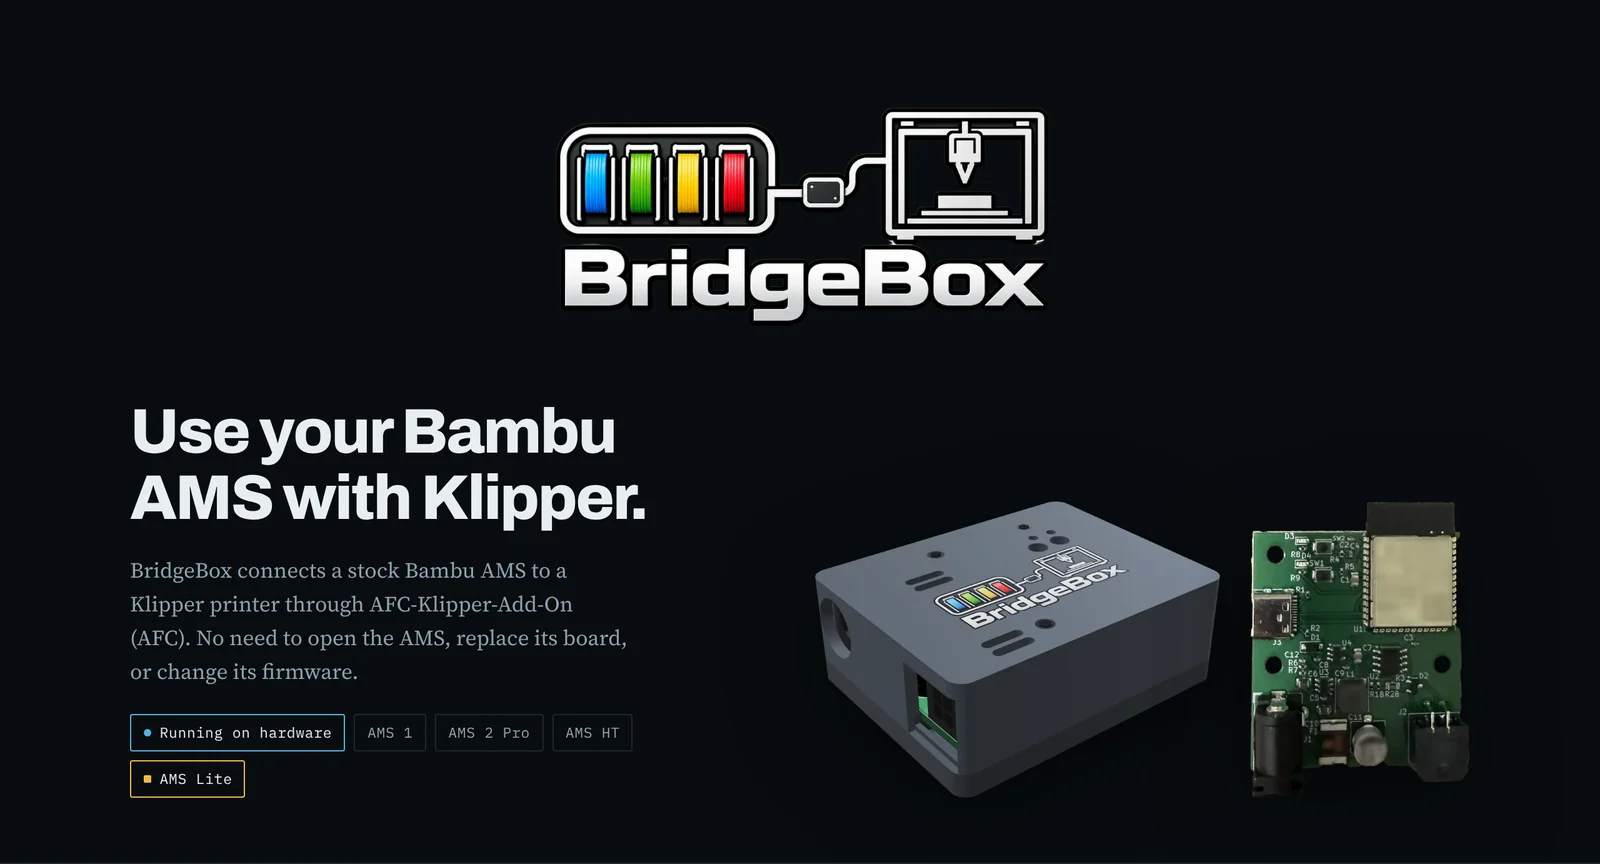
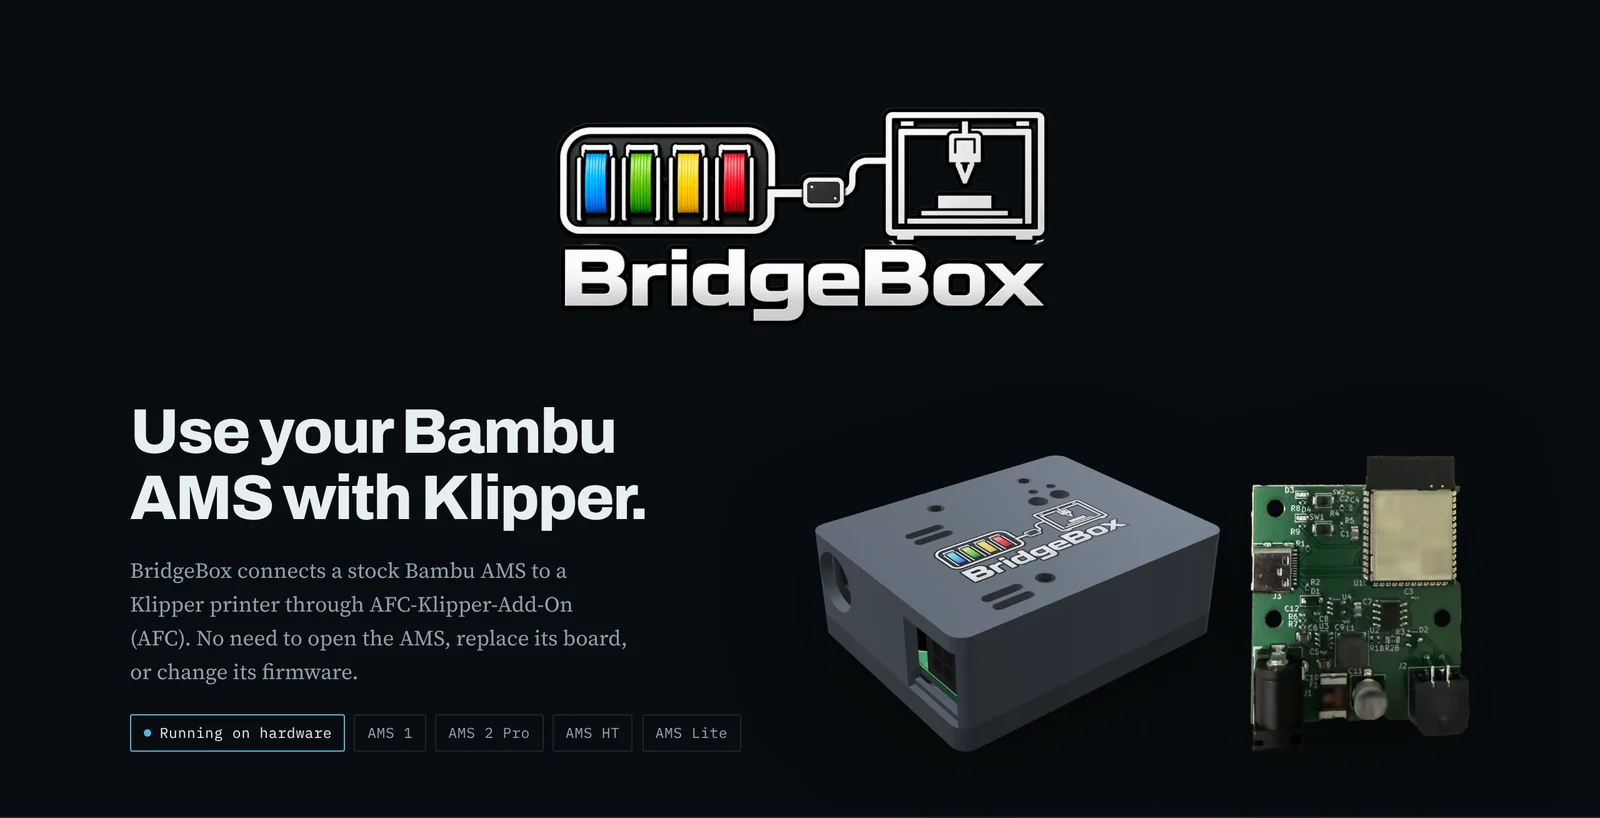
Show the AMS Lite badge like the other units
Drops the yellow "new" marker from the hero badge, its now unused style,
and re-renders the README banner to match.

diff --git a/index.html b/index.html
@@ -137,11 +137,6 @@
     color:var(--deep-muted);
   }
   .badge.live{color:var(--deep-ink);border-color:var(--signal)}
-  .badge.new{color:var(--deep-ink);border-color:var(--bay-3)}
-  .badge.new::before{
-    content:"";display:inline-block;width:6px;height:6px;border-radius:1px;
-    background:var(--bay-3);margin-right:.45rem;vertical-align:1px;
-  }
   .badge.live::before{
     content:"";display:inline-block;width:6px;height:6px;border-radius:50%;
     background:var(--signal);margin-right:.45rem;vertical-align:1px;
@@ -246,7 +241,7 @@
           <span class="badge">AMS 1</span>
           <span class="badge">AMS 2 Pro</span>
           <span class="badge">AMS HT</span>
-          <span class="badge new">AMS Lite</span>
+          <span class="badge">AMS Lite</span>
         </div>
       </div>
       <div class="hero-shots">
